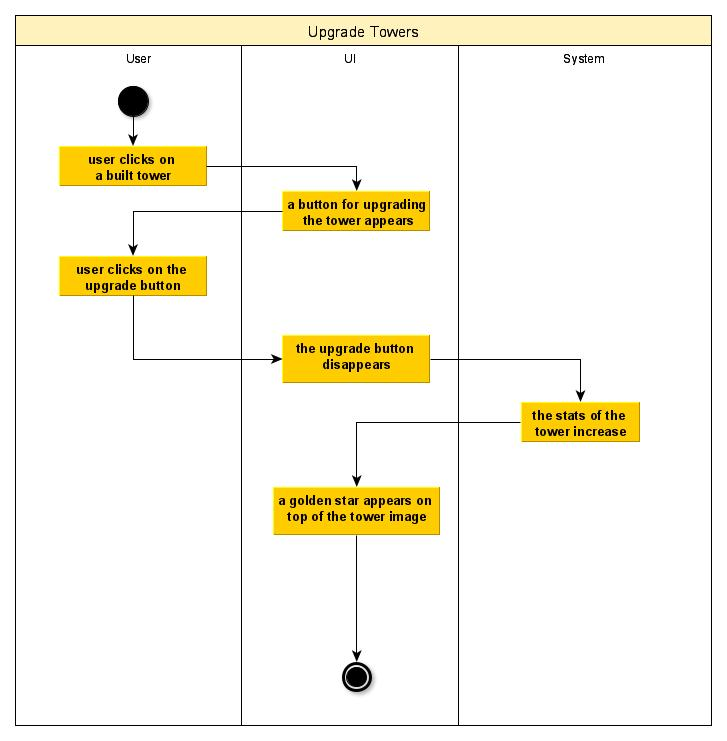
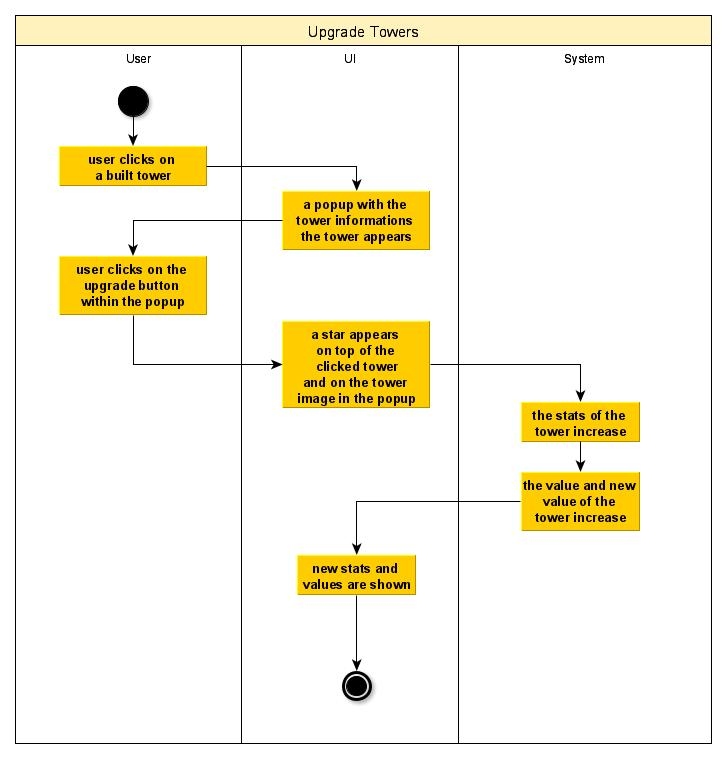
[DHTD-55]: Create UCS for UC "Upgrade Towers"

diff --git a/documents/UCS/UCS-Upgrade_Towers/UCS-Upgrade_Towers.md b/documents/UCS/UCS-Upgrade_Towers/UCS-Upgrade_Towers.md
@@ -7,11 +7,13 @@ Visually, such upgrades should be recognizable by stars which are located on top
 
 # 2 Flow of Events
 ## 2.1 Basic Flow
-- User clicks on a built tower
-- a button for upgrading this tower appears
-- User clicks on this button
-- the button disappears
-- a golden star appears on top of the tower image as sign that this tower is upgraded once
+- User clicks twice on a built tower
+- a popup with the tower stats, the upgraded tower stats and the option to sell the tower opens
+- User clicks on the upgrade button
+- a star appears on top of the clicked tower and on the tower image in the popup
+- the stats of the tower increase
+- the value and the new value of the tower increase
+- the new values are shown in the popup
 
 ### 2.1.1 Activity Diagram
 ![Activity Diagram for UpgradeTowers](./Activity_Diagram-Upgrade_Towers.jpg)
@@ -24,7 +26,7 @@ Visually, such upgrades should be recognizable by stars which are located on top
 
 ## 2.2 Alternative Flows
 - if the tower is already once upgraded, there will be a golden star added when upgrading the tower
-- if the tower is upgraded three times, the upgrade button will no longer appear so it is not possible to upgrade the tower once more
+- if the tower is already upgraded up to its maximum level, the upgrade button will no longer appear so it is not possible to upgrade the tower once more
 
 # 3 Special Requirements
 (n/a)
@@ -33,8 +35,12 @@ Visually, such upgrades should be recognizable by stars which are located on top
 ## 4.1 A tower has to be built
 Before it is possible to upgrade a tower it is necessary to build at least one tower
 
-## 4.1 Necessary money is needed
+## 4.2 Necessary money is needed
 Before it is possible to upgrade a tower it is necessary to have enough money to buy the upgrade
+
+## 4.3 A tower must be selected
+To open the necessary popup for upgrading a tower, this have to be selected by clicking on it.
+Click once more on the selected tower to open the tower information popup.
 
 # 5 Postconditions
 (n/a)
